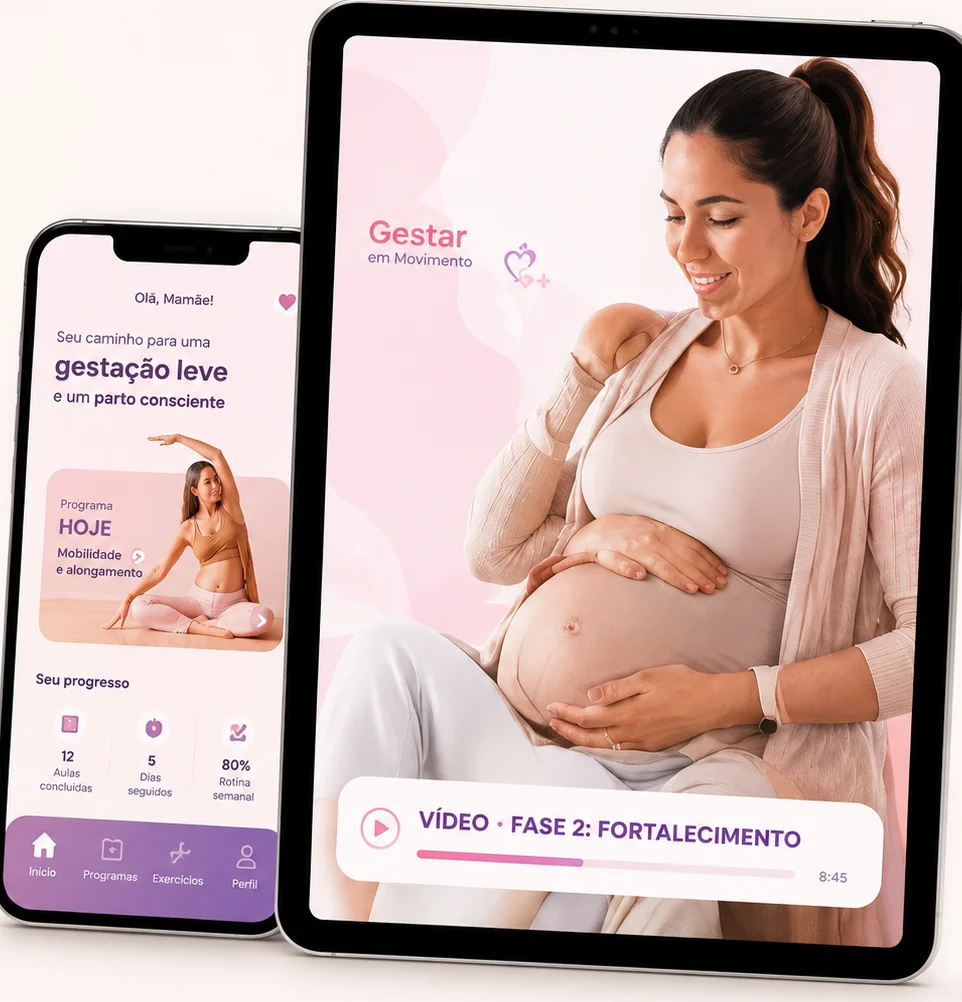
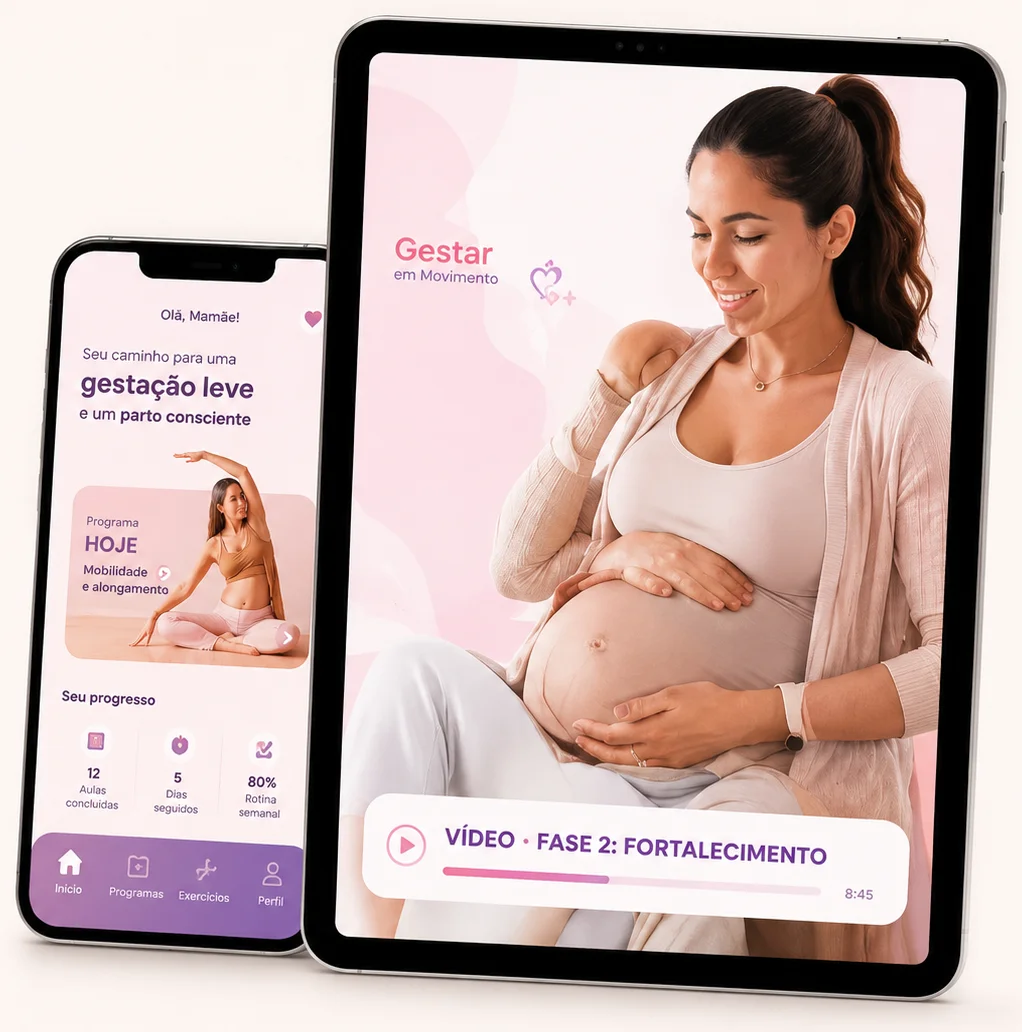
perf: corte preciso do app-mockup e ajuste do container para mais espaço ao texto

diff --git a/app/quiz/page.tsx b/app/quiz/page.tsx
@@ -1058,7 +1058,7 @@ export default function QuizPage() {
                                 ))}
                               </div>
                             </div>
-                            <div className="w-28 flex-shrink-0 relative" style={{ aspectRatio: '1/1' }}>
+                            <div className="w-24 flex-shrink-0 relative" style={{ aspectRatio: '1/1' }}>
                               <Image
                                 src="/app-mockup.webp"
                                 alt="App Gestar em Movimento"
